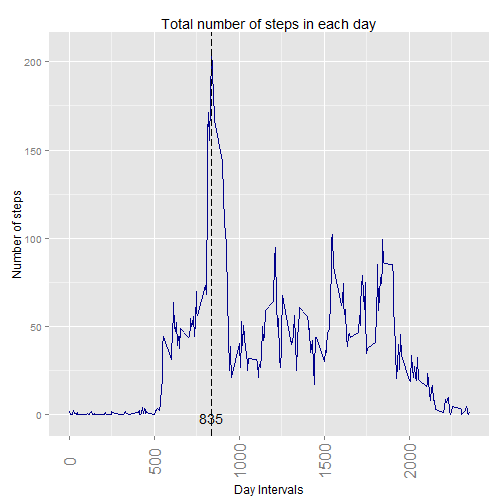
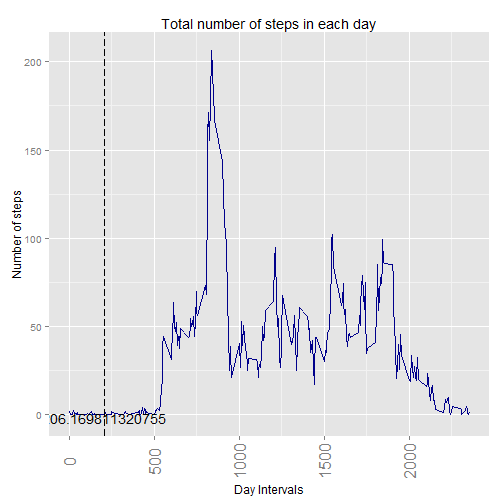
PA1 exercise commit

Changed region(s): [[0.0893, 0.8036, 0.3274, 0.8631], [0.3869, 0.8036, 0.4464, 0.8631]]

diff --git a/PA1_template.html b/PA1_template.html
@@ -204,12 +204,17 @@ hr {
 <hr/>
 
 <p>title: &ldquo;Reproducible Research: Peer Assessment 1&rdquo;
-output: 
-  html_document:</p>
+output: html_document</p>
 
 <h2>    keep_md: true</h2>
 
+<p><strong>This document contains the completed work for peer assignment #1 for the Coursera Reproducable Research class.</strong></p>
+
 <h2>Loading and preprocessing the data</h2>
+
+<p>Questions for assessment are:
+1. Calculate the total number of steps taken per day
+2. Make a histogram of the total number of steps taken each day</p>
 
 <p>First step of the analysis is the loading and preprocessing data.
 The assumption is that data is stored in local working directory.
@@ -217,8 +222,9 @@ The analysis starts with loading necessary libraries and read data to create the
 
 <h2>What is mean total number of steps taken per day?</h2>
 
-<p>For this question, NA values are ignored.
-First the dataset is summarized, to create a new dataset with the measure of total number of stepstaken each day   </p>
+<p>For this question, NA values are ignored.</p>
+
+<p>First the dataset is summarized, to create a new dataset with the measure of total number of stepstaken each day   </p>
 
 <pre><code class="r">dataperday &lt;- summarize(group_by(select(dataset, c(1:2)), date), stepsperday=sum(steps))
 head(dataperday)
@@ -265,7 +271,12 @@ g1+geom_vline(xintercept = mean_total, colour=&quot;green&quot;, linetype = &quo
 
 <h2>What is the average daily activity pattern?</h2>
 
+<p>Questions for assessment are:
+1. Make a time series plot (i.e. type = &ldquo;l&rdquo;) of the 5-minute interval (x-axis) and the average number of steps taken, averaged across all days (y-axis)
+2. Which 5-minute interval, on average across all the days in the dataset, contains the maximum number of steps?</p>
+
 <p>For these questions, NA values are ignored.
+Calculate and report the mean and median of the total number of steps taken per day
 The initial the dataset is summarized, to create a new dataset with the mean of steps taken each interval  </p>
 
 <pre><code class="r">dataperinterval &lt;- summarize(group_by(select(dataset, c(1,3)), interval), stepsperminuteinterval=mean(steps,na.rm=TRUE))
@@ -285,13 +296,14 @@ head(dataperinterval)
 
 <p>The interval with maximun mean of steps is now calculated</p>
 
-<pre><code class="r">maxsteps_interval &lt;- dataperinterval[dataperinterval$stepsperminuteinterval==max(dataperinterval$stepsperminuteinterval),3]
+<pre><code class="r">maxsteps_interval &lt;- dataperinterval[dataperinterval$stepsperminuteinterval==max(dataperinterval$stepsperminuteinterval),2]
 maxsteps_interval
 </code></pre>
 
-<pre><code>## Source: local data frame [0 x 1]
+<pre><code>## Source: local data frame [1 x 1]
 ## 
-## Variables not shown: NA (NULL)
+##   stepsperminuteinterval
+## 1               206.1698
 </code></pre>
 
 <p>So interval with maximum steps is 8:35</p>
@@ -303,10 +315,15 @@ g2&lt;-g2+geom_line(colour = &quot;darkblue&quot;, fill = &quot;white&quot;)+lab
 g2+theme(axis.text.x  = element_text(angle=90, vjust=0.5, size=16))+geom_vline(xintercept = as.integer(maxsteps_interval), colour=&quot;black&quot;, linetype = &quot;longdash&quot;)+annotate(&quot;text&quot;, x = as.integer(maxsteps_interval), y = -2, label = as.character(maxsteps_interval))
 </code></pre>
 
-<pre><code>## Error in get(x, envir = this, inherits = inh)(this, ...): (list) object cannot be coerced to type &#39;integer&#39;
-</code></pre>
[1 lines of base64/hex data omitted]
 
 <h2>Inputing missing values</h2>
+
+<p>Questions for assessment are:
+1. Calculate and report the total number of missing values in the dataset (i.e. the total number of rows with NAs)
+2. Devise a strategy for filling in all of the missing values in the dataset. The strategy does not need to be sophisticated.
+3. Create a new dataset that is equal to the original dataset but with the missing data filled in.
+4. Make a histogram of the total number of steps taken each day and Calculate and report the mean and median total number of steps taken per day. Do these values differ from the estimates from the first part of the assignment? What is the impact of imputing missing data on the estimates of the total daily number of steps?</p>
 
 <p>In the initial dataset there are some NA value</p>
 
@@ -387,6 +404,10 @@ g3+geom_vline(xintercept = mean_total, colour=&quot;green&quot;, linetype = &quo
[1 lines of base64/hex data omitted]
 
 <h2>Are there differences in activity patterns between weekdays and weekends?</h2>
+
+<p>Questions for assessment are:
+1. Create a new factor variable in the dataset with two levels - &ldquo;weekday&rdquo; and &ldquo;weekend&rdquo; indicating whether a given date is a weekday or weekend day.
+2. Make a panel plot containing a time series plot (i.e. type = &ldquo;l&rdquo;) of the 5-minute interval (x-axis) and the average number of steps taken, averaged across all weekday days or weekend days (y-axis).</p>
 
 <p>To evaluate differences between weekdays and weekend, the analysis uses the filled dataset.
 First step is the addition of a new column to dataset to identify if a day is weekday or weekend.

diff --git a/PA1_template.md b/PA1_template.md
@@ -1,12 +1,17 @@
 
 ---
 title: "Reproducible Research: Peer Assessment 1"
-output: 
-  html_document:
+output: html_document
     keep_md: true
 ---
 
+**This document contains the completed work for peer assignment #1 for the Coursera Reproducable Research class.**
+
 ## Loading and preprocessing the data
+Questions for assessment are:
+1. Calculate the total number of steps taken per day
+2. Make a histogram of the total number of steps taken each day
+
 First step of the analysis is the loading and preprocessing data.
 The assumption is that data is stored in local working directory.
 The analysis starts with loading necessary libraries and read data to create the initial dataset
@@ -14,6 +19,7 @@ The analysis starts with loading necessary libraries and read data to create the
 
 ## What is mean total number of steps taken per day?
 For this question, NA values are ignored.
+
 First the dataset is summarized, to create a new dataset with the measure of total number of stepstaken each day   
 
 ```r
@@ -67,7 +73,12 @@ g1+geom_vline(xintercept = mean_total, colour="green", linetype = "longdash")+ge
 ![plot of chunk unnamed-chunk-5](figure/unnamed-chunk-5-1.png) 
 
 ## What is the average daily activity pattern?
+Questions for assessment are:
+1. Make a time series plot (i.e. type = "l") of the 5-minute interval (x-axis) and the average number of steps taken, averaged across all days (y-axis)
+2. Which 5-minute interval, on average across all the days in the dataset, contains the maximum number of steps?
+
 For these questions, NA values are ignored.
+Calculate and report the mean and median of the total number of steps taken per day
 The initial the dataset is summarized, to create a new dataset with the mean of steps taken each interval  
 
 ```r
@@ -89,14 +100,15 @@ head(dataperinterval)
 The interval with maximun mean of steps is now calculated
 
 ```r
-maxsteps_interval <- dataperinterval[dataperinterval$stepsperminuteinterval==max(dataperinterval$stepsperminuteinterval),3]
+maxsteps_interval <- dataperinterval[dataperinterval$stepsperminuteinterval==max(dataperinterval$stepsperminuteinterval),2]
 maxsteps_interval
 ```
 
 ```
-## Source: local data frame [0 x 1]
+## Source: local data frame [1 x 1]
 ## 
-## Variables not shown: NA (NULL)
+##   stepsperminuteinterval
+## 1               206.1698
 ```
 So interval with maximum steps is 8:35
 
@@ -108,11 +120,15 @@ g2<-g2+geom_line(colour = "darkblue", fill = "white")+labs(title="Total number o
 g2+theme(axis.text.x  = element_text(angle=90, vjust=0.5, size=16))+geom_vline(xintercept = as.integer(maxsteps_interval), colour="black", linetype = "longdash")+annotate("text", x = as.integer(maxsteps_interval), y = -2, label = as.character(maxsteps_interval))
 ```
 
-```
-## Error in get(x, envir = this, inherits = inh)(this, ...): (list) object cannot be coerced to type 'integer'
-```
+![plot of chunk unnamed-chunk-8](figure/unnamed-chunk-8-1.png) 
 
 ## Inputing missing values
+Questions for assessment are:
+1. Calculate and report the total number of missing values in the dataset (i.e. the total number of rows with NAs)
+2. Devise a strategy for filling in all of the missing values in the dataset. The strategy does not need to be sophisticated.
+3. Create a new dataset that is equal to the original dataset but with the missing data filled in.
+4. Make a histogram of the total number of steps taken each day and Calculate and report the mean and median total number of steps taken per day. Do these values differ from the estimates from the first part of the assignment? What is the impact of imputing missing data on the estimates of the total daily number of steps?
+
 In the initial dataset there are some NA value
 
 ```r
@@ -205,6 +221,10 @@ g3+geom_vline(xintercept = mean_total, colour="green", linetype = "longdash")+ge
 
 
 ## Are there differences in activity patterns between weekdays and weekends?
+Questions for assessment are:
+1. Create a new factor variable in the dataset with two levels - "weekday" and "weekend" indicating whether a given date is a weekday or weekend day.
+2. Make a panel plot containing a time series plot (i.e. type = "l") of the 5-minute interval (x-axis) and the average number of steps taken, averaged across all weekday days or weekend days (y-axis).
+    
 To evaluate differences between weekdays and weekend, the analysis uses the filled dataset.
 First step is the addition of a new column to dataset to identify if a day is weekday or weekend.
 Then the dataset is summarize to obtain the average number of steps taken in each interval, averaged across all weekday days or weekend days
